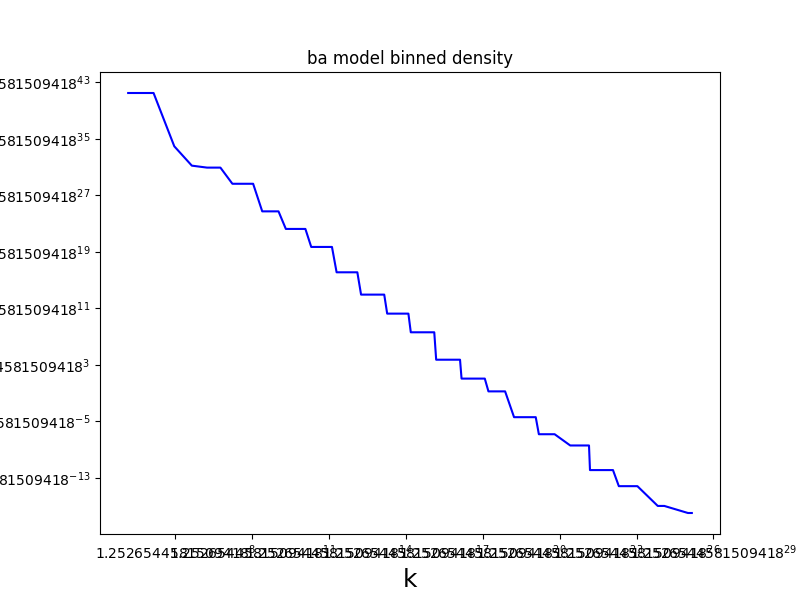
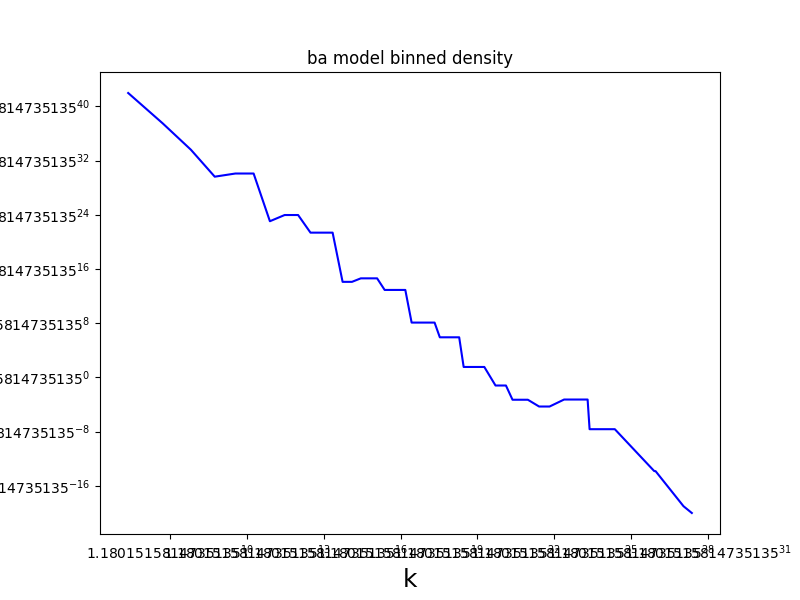
3 22

diff --git a/Networks3/ba.py b/Networks3/ba.py
@@ -7,6 +7,9 @@ class Node:
         self.fitness: float = fitness
         self.neighbors: list[Node] = []
 
+        if self.fitness == 0:
+            self.fitness = 1#np.random.randint(1, 11)
+
     def add_neighbor(self, neighbor: 'Node'):
         self.neighbors.append(neighbor)
 
@@ -36,12 +39,14 @@ def has_double(selected_indices: np.ndarray) -> bool:
     return is_double
 
 def run_ba_model(size: int, kernel_size: int, with_fitness: bool = False):
+    file_name_fitness_part: str = "_with_fitness" if with_fitness else ""
+
     list_nodes: list[Node] = create_kernel(kernel_size)
 
     square_root_size_and_ratio: list[tuple[float, float]] = []
 
     for step in range(1, size):
-        new_node: Node = Node()
+        new_node: Node = Node(fitness=step * 100000)
 
         list_indices: list[int] = [index for index in range(len(list_nodes))]
 
@@ -100,7 +105,7 @@ def run_ba_model(size: int, kernel_size: int, with_fitness: bool = False):
     plt.ylabel("Max and Min Degrees Ratio", fontsize=18)
     plt.title("ba square root of size to max and min degrees ratio")
     #plt.show()
-    plt.savefig("ba_model_square_root_n_ratio.png")
+    plt.savefig(f"ba_model_square_root_n_ratio{file_name_fitness_part}.png")
 
     dict_degrees: dict[int, int] = {}
 
@@ -153,7 +158,7 @@ def run_ba_model(size: int, kernel_size: int, with_fitness: bool = False):
 
     plt.title("ba model P(k)")
     #plt.show()
-    plt.savefig("ba_model_P_k.png")
+    plt.savefig(f"ba_model_P_k{file_name_fitness_part}.png")
 
     node_indices: list[int] = [0] * len(list_nodes)
     ks: list[int] = [0] * len(list_nodes)
@@ -294,7 +299,7 @@ def run_ba_model(size: int, kernel_size: int, with_fitness: bool = False):
     plt.ylabel("density", fontsize=18)
     plt.title("ba model binned density")
     #plt.show()
-    plt.savefig("ba_model_binned_density.png")
+    plt.savefig(f"ba_model_binned_density{file_name_fitness_part}.png")
 
     plt.figure(figsize=(8, 6))
 
@@ -324,7 +329,7 @@ def run_ba_model(size: int, kernel_size: int, with_fitness: bool = False):
     plt.ylabel("density", fontsize=18)
     plt.title("ba model binned density (median k)")
     #plt.show()
-    plt.savefig("ba_model_binned_density_median_k.png")
+    plt.savefig(f"ba_model_binned_density_median_k{file_name_fitness_part}.png")
 
     ratio: float = max_k / min_k if min_k > 0 else 0.0
     square_root_size: float = math.sqrt(len(list_nodes))
@@ -343,7 +348,7 @@ def run_ba_model(size: int, kernel_size: int, with_fitness: bool = False):
 
     plt.title("ba model")
     #plt.show()
-    plt.savefig("ba_model.png")
+    plt.savefig(f"ba_model{file_name_fitness_part}.png")
 
 
 def prepare_probabilities(list_nodes: list[Node], kernel_size: int, step: int, with_fitness: bool = False) -> np.ndarray:
@@ -387,4 +392,5 @@ def create_kernel(kernel_size: int) -> list[Node]:
 
     return list_of_nodes
 
-run_ba_model(size=22222, kernel_size=4)
+#run_ba_model(size=2222, kernel_size=4)
+run_ba_model(size=2222, kernel_size=4, with_fitness=True)
